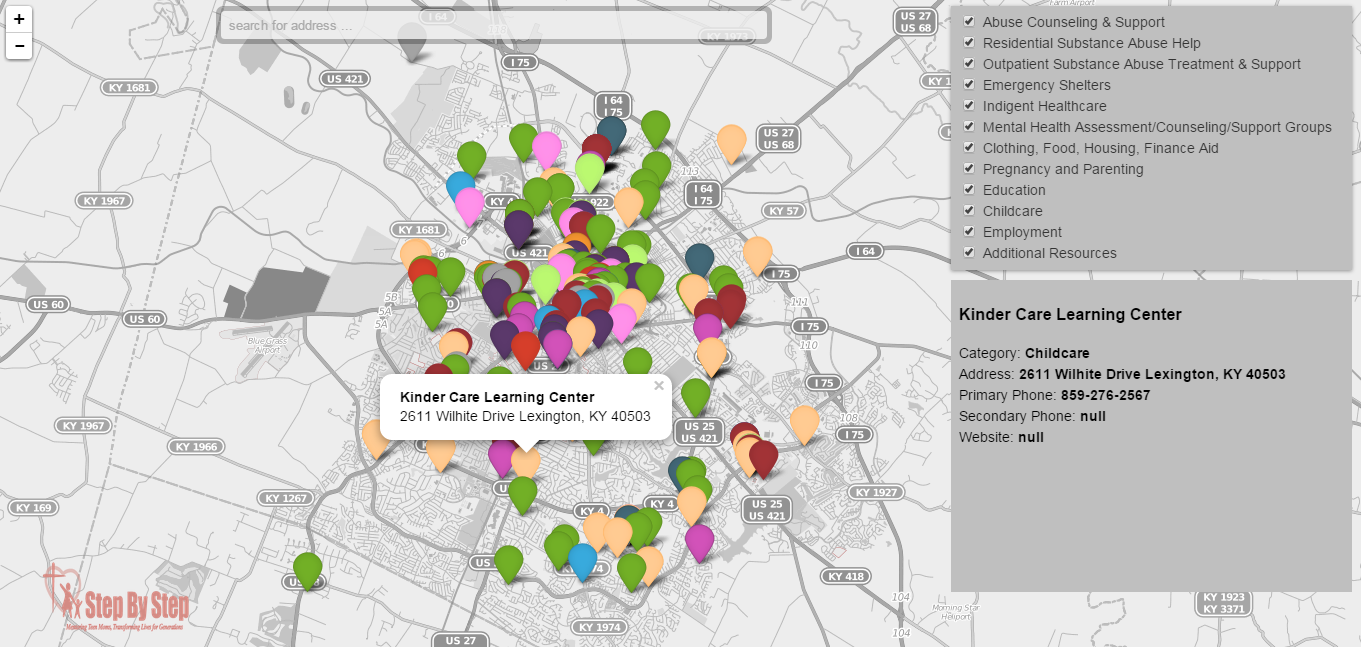
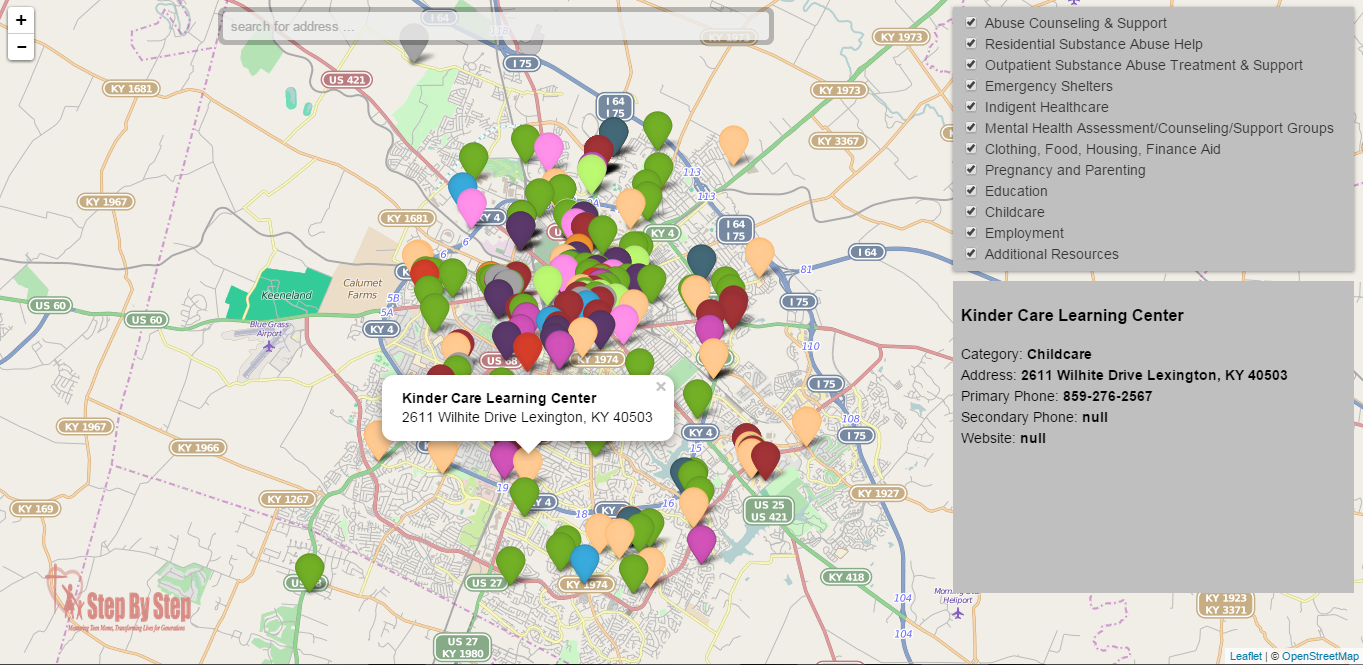
new basemap, new screenshot

diff --git a/step-by-step/index.html b/step-by-step/index.html
@@ -109,9 +109,14 @@
        
         var map = L.map('map', options);
         
-        var tiles = L.tileLayer('http://{s}.tiles.wmflabs.org/bw-mapnik/{z}/{x}/{y}.png', {
-	       attribution: '&copy; <a href="http://www.openstreetmap.org/copyright">OpenStreetMap</a>'
-        });
+        var tiles = L.tileLayer('http://{s}.tile.openstreetmap.org/{z}/{x}/{y}.png', {
+	maxZoom: 19,
+	attribution: '&copy; <a href="http://www.openstreetmap.org/copyright">OpenStreetMap</a>'
+});
+//        
+//        var tiles = L.tileLayer('http://{s}.tiles.wmflabs.org/bw-mapnik/{z}/{x}/{y}.png', {
+//	       attribution: '&copy; <a href="http://www.openstreetmap.org/copyright">OpenStreetMap</a>'
+//        });
    
         map.addLayer(tiles); 
         

diff --git a/index.html b/index.html
@@ -2,7 +2,7 @@
 <html>
 <head>
 <meta charset="utf-8">
-<title>LG Mapping</title>
+<title>Laura Greenfield|Portfolio</title>
 
 <meta name='viewport' content='initial-scale=1,maximum-scale=1,user-scalable=no' />
     
